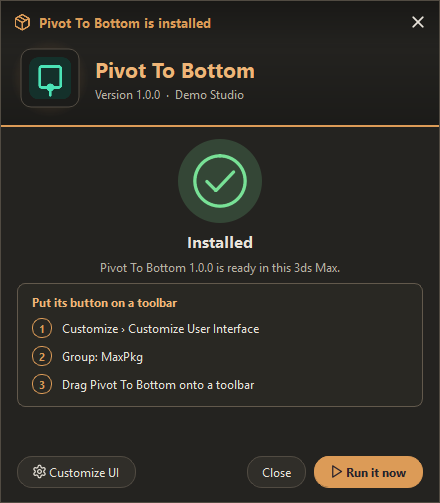
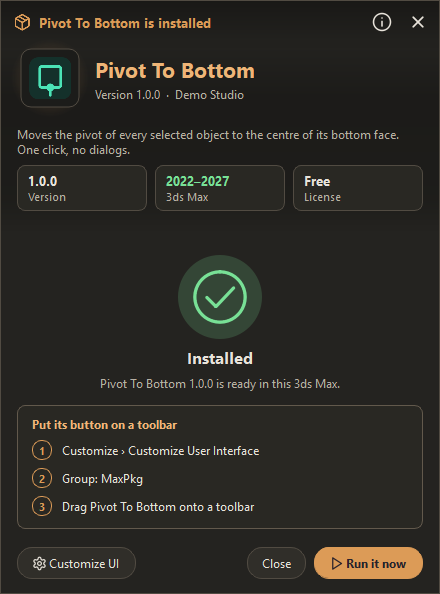
Update README pictures of the package installer

diff --git a/README.md b/README.md
@@ -74,8 +74,8 @@ Dragging your `.mzp` into 3ds Max opens your package's own installer: its icon, 
 3ds Max versions, one **Install** button, and the changelog of this version under **What's new**. Nothing is
 installed before Install is pressed; Install shows each step, then how to put the button on a toolbar and
 **Run it now**. Dragging it again offers **Reinstall** (or **Update**) and **Uninstall**. A 3ds Max older than
-the package's minimum gets a clear message and nothing is installed. With MaxPkg Manager the same files install and
-remove the package silently.
+the package's minimum gets a clear message and nothing is installed. The **i** in its title bar tells what the
+installer is and where it comes from. With MaxPkg Manager the same files install and remove the package silently.
 
 <p>
   <img src="docs/images/package-installer.png" width="320" alt="A package's installer: icon, version, Install and What's new">
